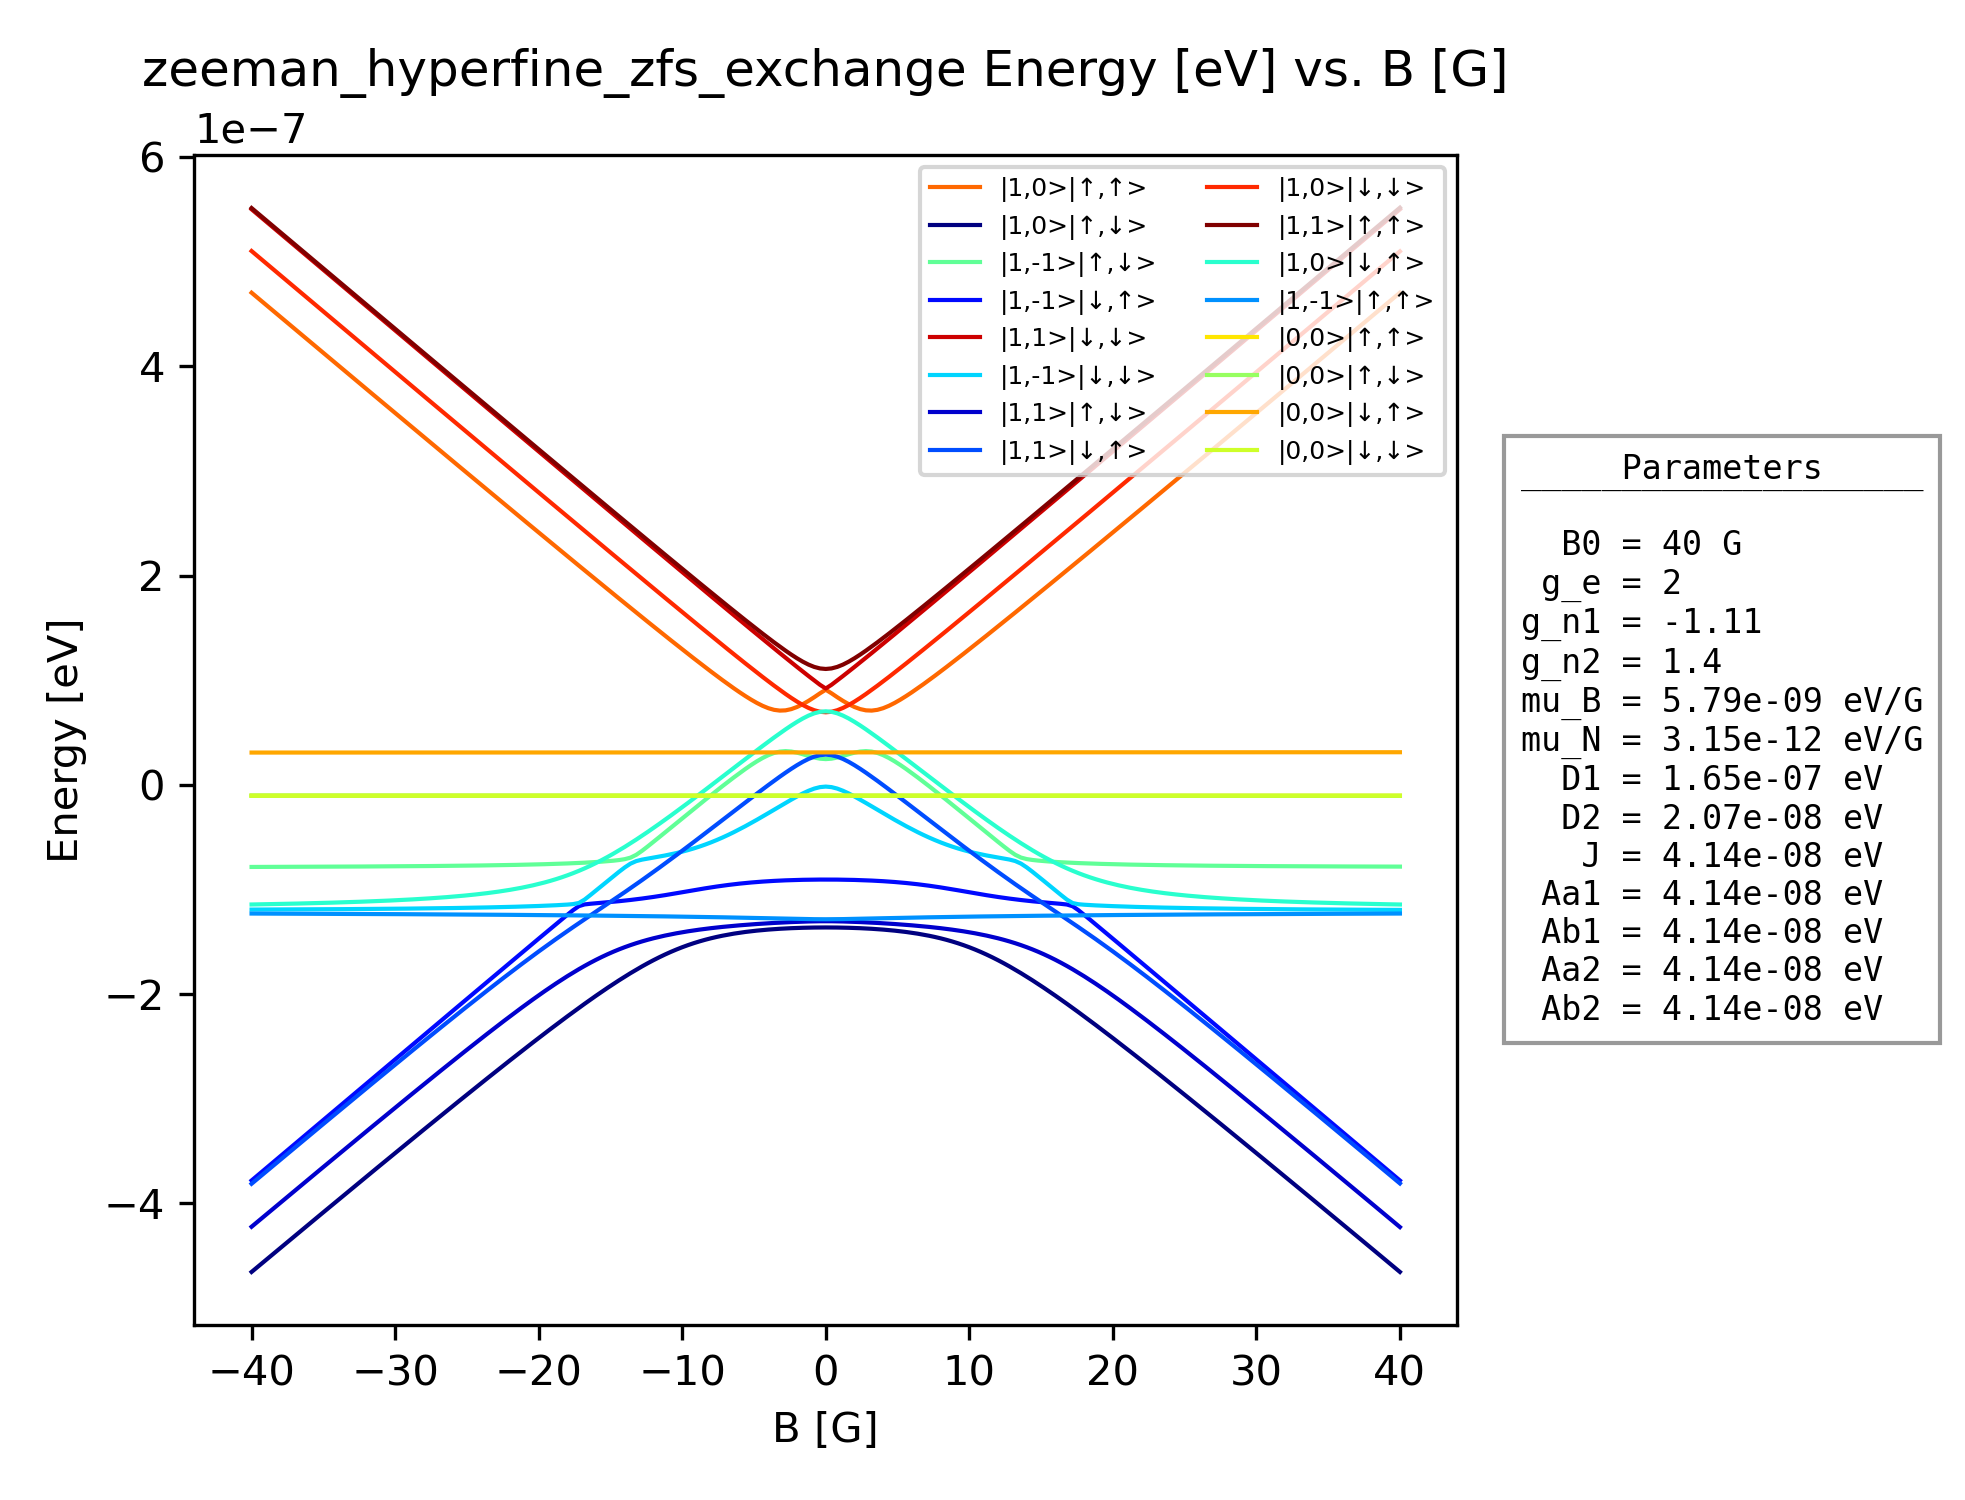
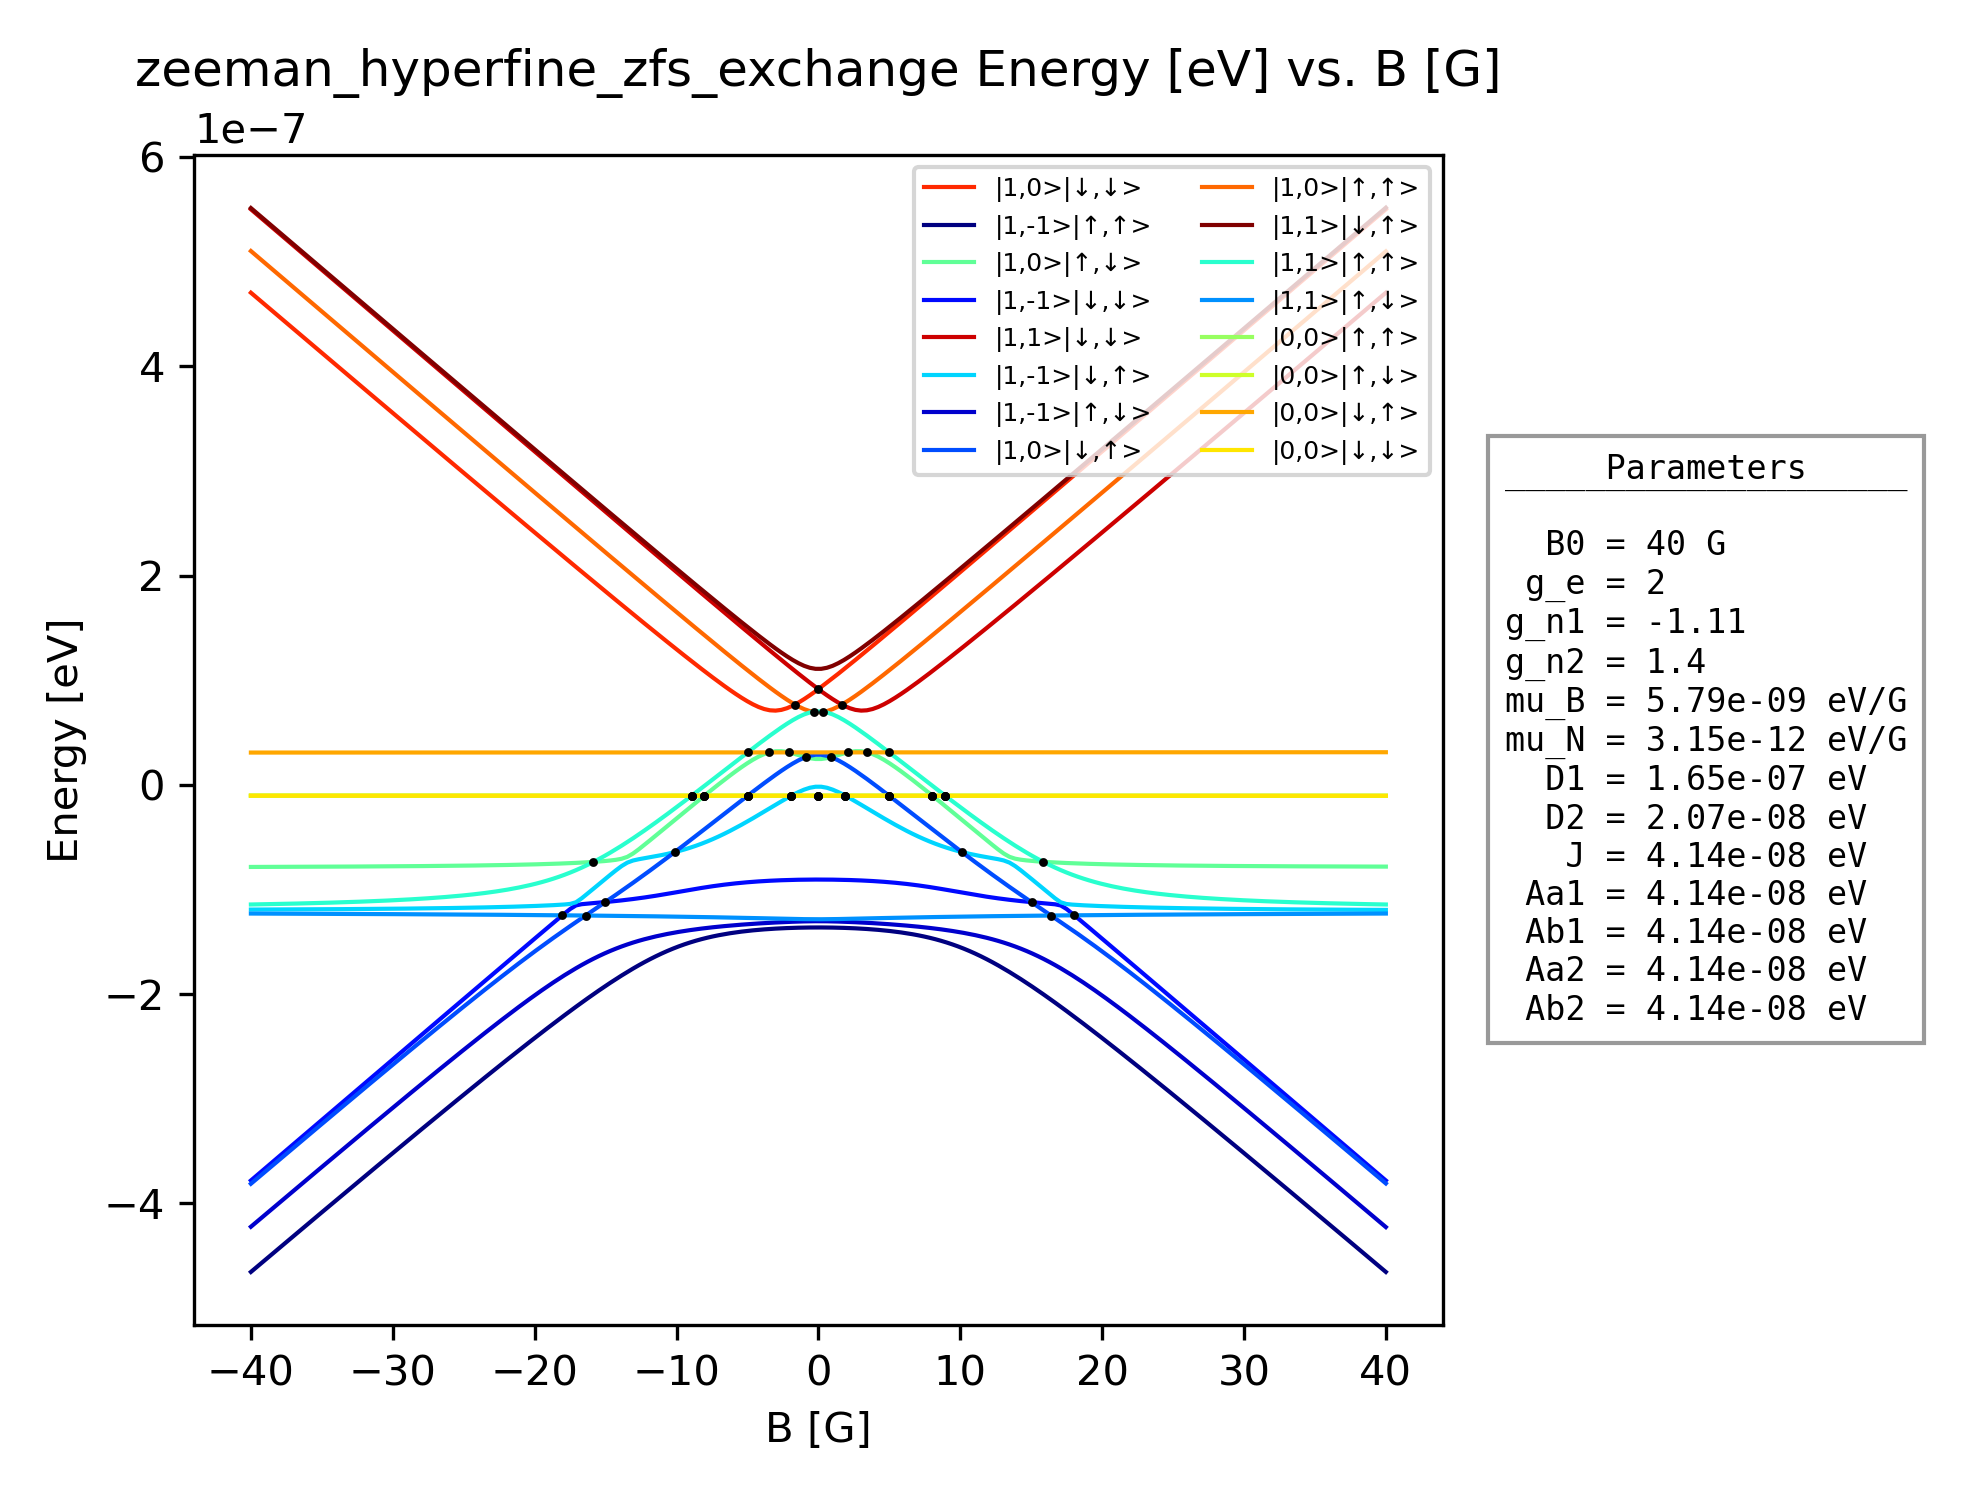
degeneracy points

diff --git a/hamiltonian/src/energy_simulation.py b/hamiltonian/src/energy_simulation.py
@@ -3,7 +3,6 @@
 ##  Mentor @ Dr. Daniel R. Hart. 
 
 #!/usr/bin/env python3
-import os
 import tqdm
 import numpy as np
 import matplotlib.pyplot as plt
@@ -26,15 +25,20 @@ def sweep(
         outdir: Path    = Path.home() / "nasa/hamiltonian/src/" / "media/"
 ):
     """
-    Sweeps across B and plots Energy [eV] vs. B [G] for the 
-    provided `method_name` Hamiltonian (See Args).
+    Sweeps across B and plots energy [eV] vs. magnetic field B [G] for 
+    the provided `method_name` Hamiltonian (see Args).
 
-    Maintains consistent eigenvector labeling via Hungarian matching, 
-    then assigns colors by ordering modes (states) by their average energy 
-    to get a smooth rainbow gradient (highest-energy = red, lowest = blue).
+    Maintains consistent eigenvector labeling via Hungarian (Kuhn–Munkres)
+    matching. Since with complicated Hamiltonians the eigenbasis isn't the 
+    same as the coupled-triplet basis, this is the next best thing 
+    labeling-wise. 
+
+    I assign colors by ordering modes by their average energy, 
+    higher energies are redder, lower energies are bluer. 
+
     """
 
-    logging.info(f" Starting Eigensimulation for {method_name!r}")
+    logging.info(f" Starting eigensimulation for {method_name!r}")
     
     solver = Eigensolver(
         method_name=method_name, 
@@ -59,7 +63,7 @@ def sweep(
         if prev_v is None:
             solver._log_eigenvectors()
             energies[i] = solver.w.real
-            prev_v      = solver.v               # columns are eigenvectors
+            prev_v      = solver.v                  # columns are eigenvectors
             labels      = solver.labels.copy()
         else:
             # hungarian matching
@@ -71,6 +75,21 @@ def sweep(
             prev_v      = solver.v[:, col_idx]
             labels      = [labels[j] for j in col_idx]
 
+    # find all degeneracy points 
+    intersections = []
+    for k in range(n_states):
+        for l in range(k+1, n_states):
+            delta = energies[:,k] - energies[:,l]
+            # look for sign‐changes between adjacent B steps
+            idx = np.where(delta[:-1] * delta[1:] < 0)[0]
+            for j in idx:
+                # linear interpolation fraction
+                t = delta[j] / (delta[j] - delta[j+1])
+                B_cross = B_fields[j] + t*(B_fields[j+1] - B_fields[j])
+                E_cross = energies[j,k] + t*(energies[j+1,k] - energies[j,k])
+                intersections.append((B_cross, E_cross))
+    intersections = np.array(intersections) 
+
     # organize colors for final plot by energy 
     # red -> blue from top-to-bottom
     mean_energies = energies.mean(axis=0)
@@ -81,6 +100,18 @@ def sweep(
     fig, axis = plt.subplots(1, 1, figsize=(6.55, 5))
     for k in range(n_states):
         axis.plot(B_fields, energies[:, k], lw=1, c=state_colors[k], label=labels[k])
+
+    # plot degeneracy points
+    if intersections.size:
+        axis.scatter(
+            intersections[:,0],
+            intersections[:,1],
+            marker=".",
+            s=5,      
+            c='k',  
+            zorder=5,
+            label='_degeneracies_'  
+        )
 
     plt.xlabel("B [G]")
     plt.ylabel("Energy [eV]")
@@ -120,7 +151,7 @@ def sweep(
         + "\n".join(param_lines)
     )
 
-    fig.subplots_adjust(right=0.75)
+    fig.subplots_adjust(right=0.9)
     axis.text(
         1.05, 0.5,
         param_text,
@@ -139,38 +170,54 @@ def sweep(
     file_key = method_name
     if method_name == "zeeman_hyperfine_zfs_exchange":
         file_key = "full_spin_hamiltonian"
+
     fname = outdir / f"{file_key}_sweep.png"
     plt.tight_layout()
     fig.savefig(fname, dpi=300)
-    logging.info(f" {file_key} simulation saved to \n {fname}.\n")
-    
+    logging.info(f" {file_key!r} simulation saved to \n {fname}.\n")
+
+
+def _run_all(
+    b_sweep: tuple = (-40, 40, 200), 
+    verbose: bool  = False,
+    outdir: Path   = Path.home() / "nasa/hamiltonian/src/" / "media/",  
+):
+    """ Run the eigensimulation for every Hamiltonian combination. """
+
+    for method_name in [
+        "zeeman_only", 
+        "hyperfine_only",
+        "exchange_only", 
+        "zfs_only", 
+
+        "zeeman_hyperfine",
+        "zeeman_exchange", 
+        "zeeman_zfs", 
+        "hyperfine_exchange", 
+        "hyperfine_zfs", 
+        "zfs_exchange",
+
+        "zeeman_zfs_exchange", 
+        "zeeman_hyperfine_zfs", 
+        "zeeman_hyperfine_exchange", 
+        "hyperfine_zfs_exchange", 
+
+        "zeeman_hyperfine_zfs_exchange", 
+    ]: 
+        sweep(
+            method_name = method_name, 
+            b_sweep     = b_sweep,      # (int, int, int)  
+            verbose     = verbose, 
+            outdir      = outdir, 
+        )
+     
 if __name__ == "__main__":
     """sweep(
        method_name = "zeeman_hyperfine_zfs_exchange", 
        b_sweep=(-40, 40, 201), 
        verbose=False, 
-       outdir = Path.home() / "nasa/hamiltonian/src/" / "media"
-    )"""
+       outdir = Path.home() / "nasa/hamiltonian/src/" / "media/"
+    )""" 
 
+    _run_all()
 
-for method_name in [
-    "zeeman_only", 
-    "hyperfine_only", 
-    "exchange_only", 
-    "zfs_only", 
-    "zeeman_hyperfine",
-    "zeeman_exchange", 
-    "zeeman_zfs", 
-    "hyperfine_exchange", 
-    "hyperfine_zfs", 
-    "zfs_exchange", 
-    "zeeman_hyperfine_zfs", 
-    "zeeman_hyperfine_exchange", 
-    "hyperfine_zfs_exchange", 
-    "zeeman_hyperfine_zfs_exchange", 
-]: 
-    sweep(
-        method_name = method_name, 
-        b_sweep     = (-40, 40, 201), 
-        verbose     = False, 
-    )
